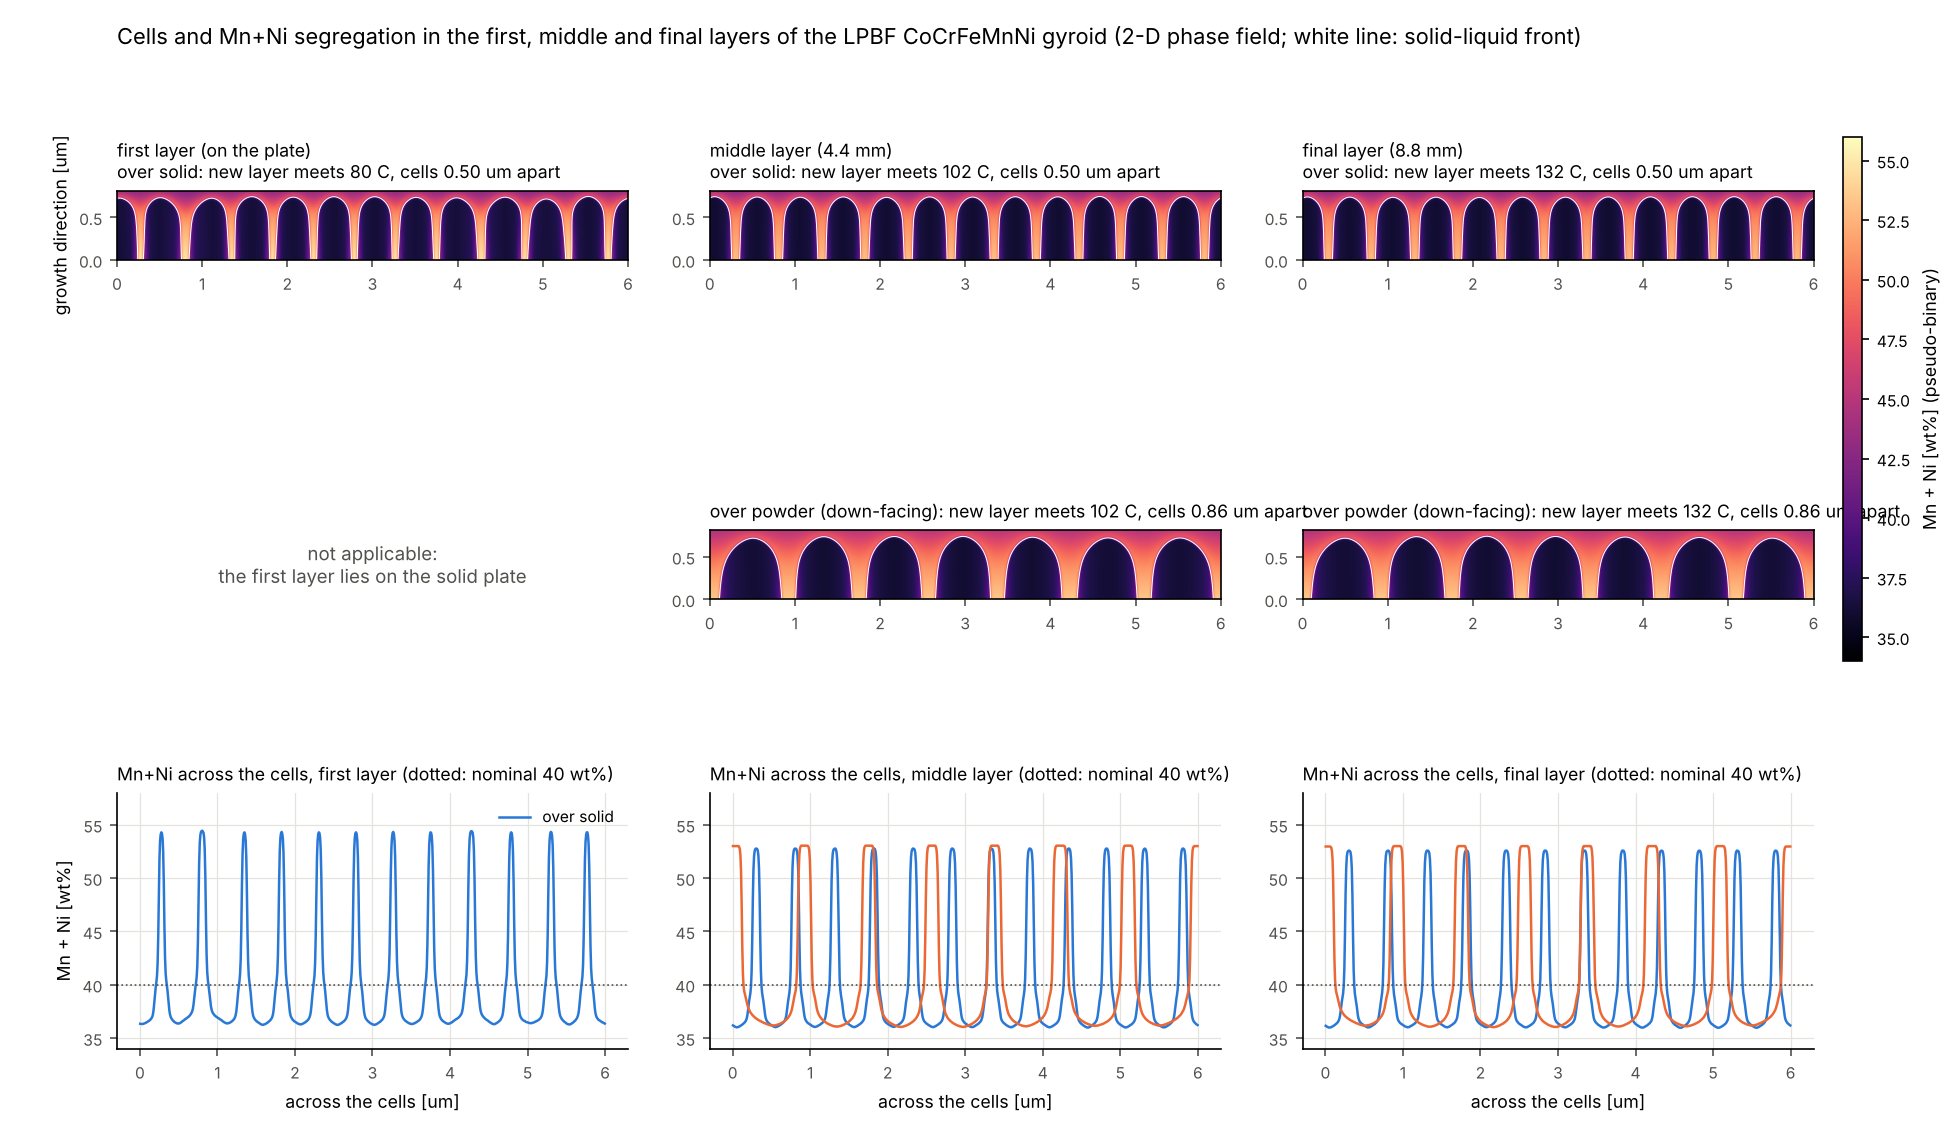
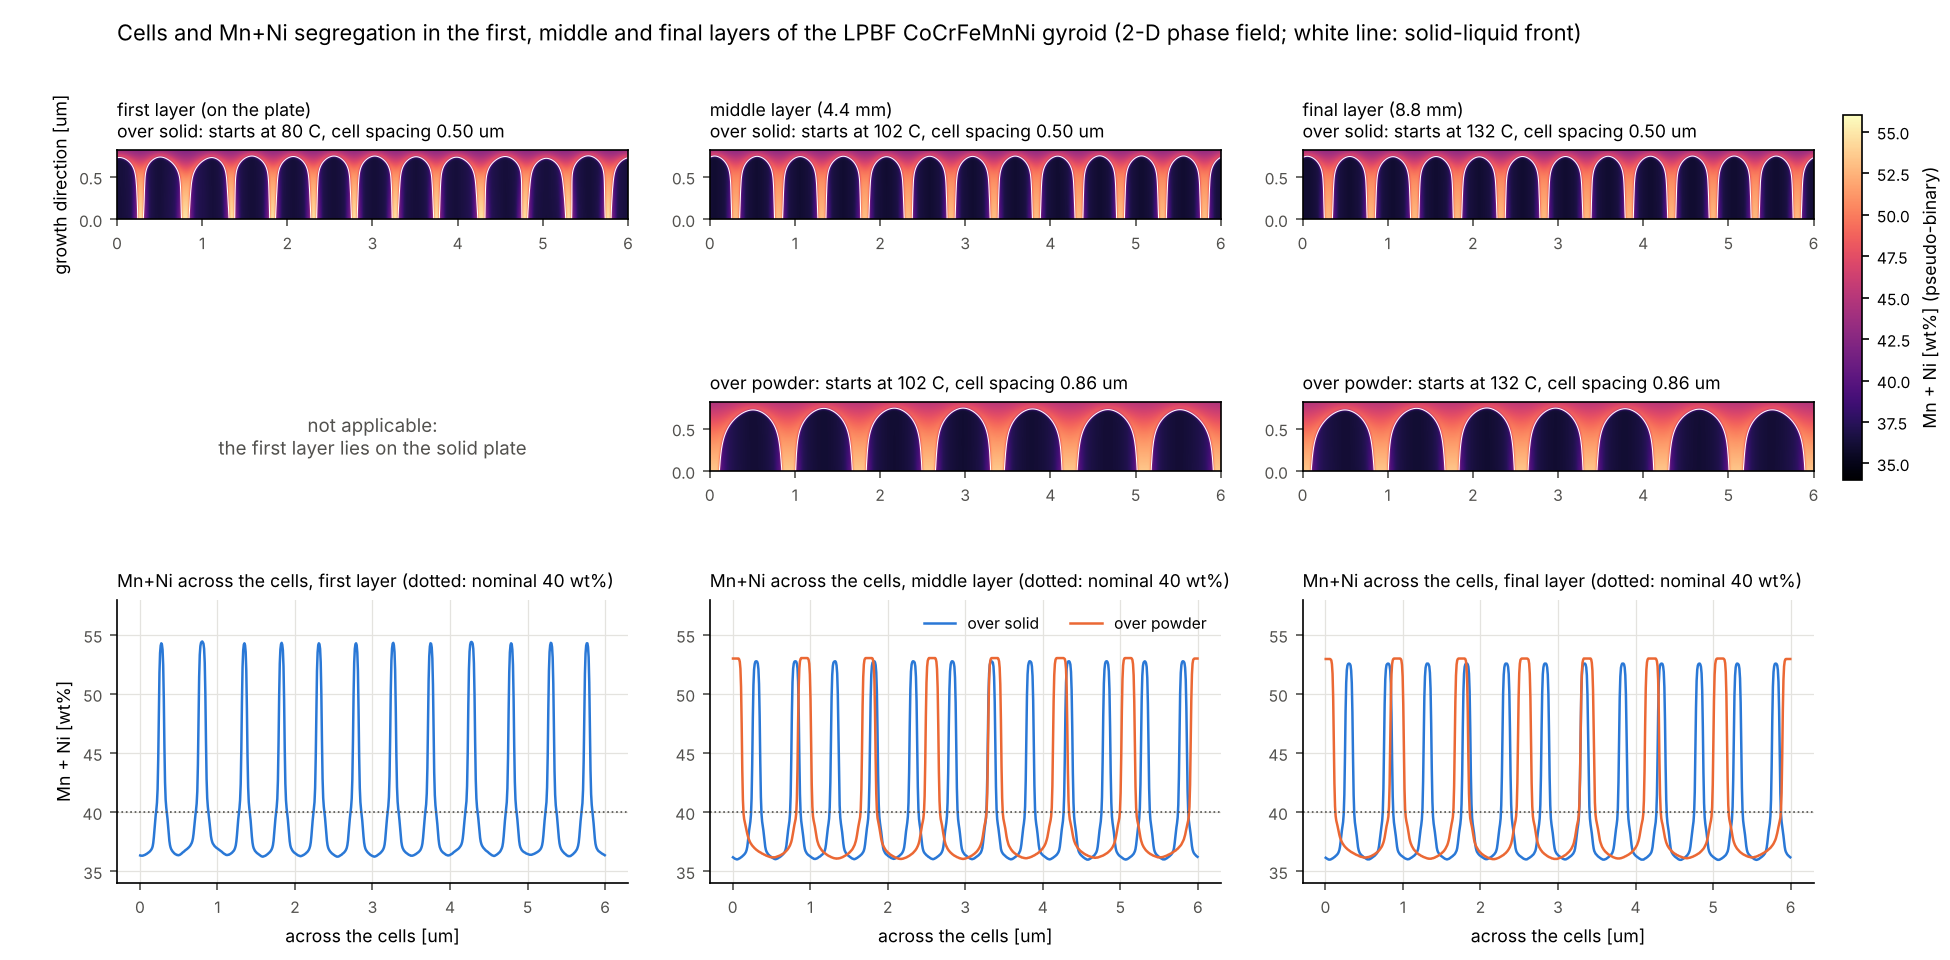
Cantor layers: segregation figure, final layout [skip ci]
Claude-Session: https://claude.ai/code/session_019xk7GSHCeHRKRYYELvB2ct

diff --git a/benchmarks/literature/cantor_gyroid_layers.py b/benchmarks/literature/cantor_gyroid_layers.py
@@ -75,10 +75,10 @@ def figure():
     store = ResultStore(STORE)
     F = dict(np.load(FIELDS))
     cols = [("first", "first layer (on the plate)"), ("middle", f"middle layer ({Z_MID} mm)"), ("final", f"final layer ({Z_END} mm)")]
-    rows = [("solid", "over solid"), ("powder", "over powder (down-facing)")]
+    rows = [("solid", "over solid"), ("powder", "over powder")]
     BLUE, ORANGE, MUTED, GRID = "#2a78d6", "#eb6834", "#52514e", "#e4e3df"
-    fig = plt.figure(figsize=(13, 7.6))
-    gs = fig.add_gridspec(3, 3, height_ratios=[1, 1, 1.15], hspace=0.5, wspace=0.16, left=0.06, right=0.93, top=0.9,
+    fig = plt.figure(figsize=(13, 6.4))
+    gs = fig.add_gridspec(3, 3, height_ratios=[1, 1, 1.6], hspace=0.35, wspace=0.16, left=0.06, right=0.93, top=0.9,
                           bottom=0.08)
     im = None
     n_rows = min(F[k].shape[0] for k in F if k.endswith("_c"))          # same height for every map
@@ -98,7 +98,7 @@ def figure():
             im = ax.imshow(c, origin="lower", cmap="magma", vmin=34, vmax=56, extent=[0, c.shape[1] * dx, 0, c.shape[0] * dx])
             ax.contour((np.arange(c.shape[1]) + 0.5) * dx, (np.arange(c.shape[0]) + 0.5) * dx, F[key + "_phi"].astype(float)[-n_rows:],
                        [0.0], colors="w", linewidths=0.5)
-            ax.set_title(f"{ltitle if i == 0 else ''}\n{stitle}: new layer meets {o['T0']:.0f} C, cells {o['spacing_um']:.2f} um apart",
+            ax.set_title(f"{ltitle if i == 0 else ''}\n{stitle}: starts at {o['T0']:.0f} C, cell spacing {o['spacing_um']:.2f} um",
                          fontsize=8.5, loc="left")
             ax.tick_params(labelsize=7.5, colors=MUTED)
             if j == 0:
@@ -116,8 +116,9 @@ def figure():
             axp.spines[side].set_visible(False)
         if j == 0:
             axp.set_ylabel("Mn + Ni [wt%]", fontsize=8.5)
+        if j == 1:
             axp.legend(fontsize=7.5, frameon=False, loc="upper right", ncol=2)
-    cax = fig.add_axes([0.945, 0.42, 0.01, 0.46])
+    cax = fig.add_axes([0.945, 0.5, 0.01, 0.38])
     cb = fig.colorbar(im, cax=cax)
     cb.set_label("Mn + Ni [wt%] (pseudo-binary)", fontsize=8.5)
     cb.ax.tick_params(labelsize=7.5)
